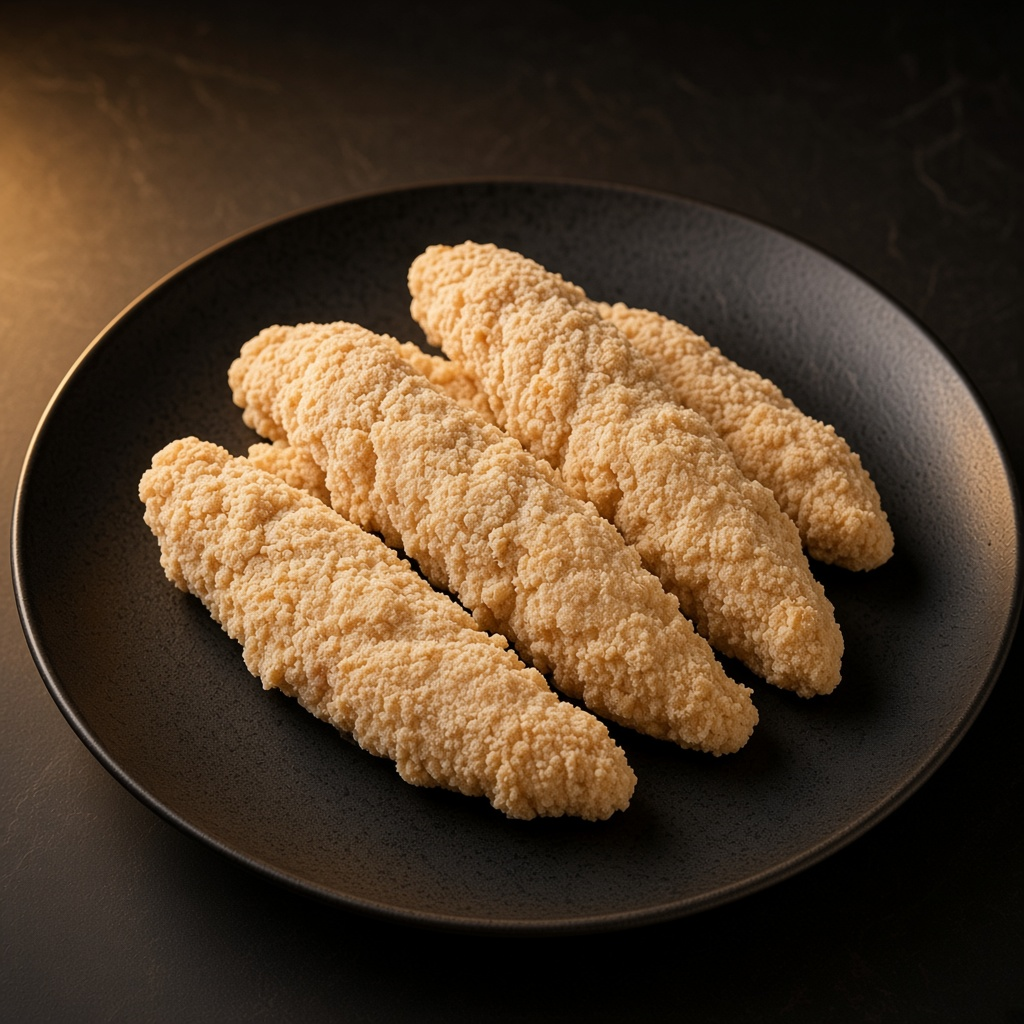
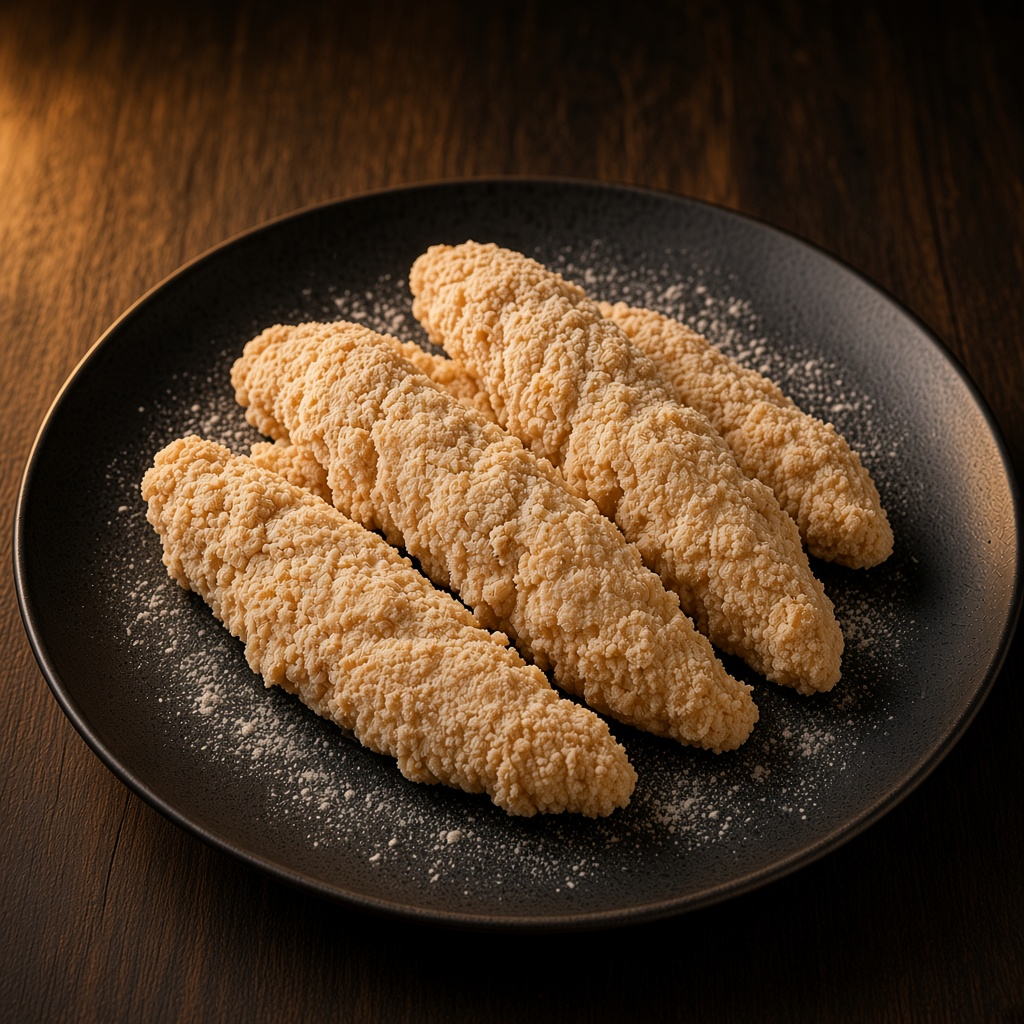
إضافة شارة التنفيذ وتوحيد نصوص المنيو مع صورة أوضح للاستربس.

diff --git a/src/data/menu.ts b/src/data/menu.ts
@@ -62,13 +62,13 @@ export const menuSections: MenuSectionData[] = [
     title: "منتجاتنا الطازجة",
     items: [
       { name: "بط بلدي", image: duck, label: DAILY_PRICE_LABEL, featured: true },
-      { name: "فراخ جاهزة على الطبخ", image: wholeChicken, label: DAILY_PRICE_LABEL, featured: true },
+      { name: "فراخ جاهزة\nعلى الطبخ", image: wholeChicken, label: DAILY_PRICE_LABEL, featured: true },
       { name: "بانيه شرائح فريش", image: baniehStrips, label: DAILY_PRICE_LABEL },
       { name: "أوراك بالعظم", image: thighsBone, label: DAILY_PRICE_LABEL },
       { name: "دبابيس دجاج", image: chickenFeet, label: DAILY_PRICE_LABEL },
       { name: "أجنحة دجاج", image: wings, label: DAILY_PRICE_LABEL },
       { name: "حمام بلدي", image: pigeons, label: DAILY_PRICE_LABEL },
-      { name: "فراخ بيضاء تربية بيتي", image: whiteChickens, label: DAILY_PRICE_LABEL },
+      { name: "فراخ بيضاء\nتربية بيتي", image: whiteChickens, label: DAILY_PRICE_LABEL },
       { name: "بيض أبيض", image: eggs, label: DAILY_PRICE_LABEL },
     ],
   },
@@ -76,7 +76,7 @@ export const menuSections: MenuSectionData[] = [
     id: "kofta-strips",
     title: "ركن الكفتة والاستربس",
     items: [
-      { name: "كفتة على الفحم، كيلو جاهز على الأكل", image: koftaCharcoal, price: "300 جنيه", featured: true },
+      { name: "كفتة على الفحم، كيلو", image: koftaCharcoal, price: "300 جنيه", note: "جاهز على الأكل", featured: true },
       { name: "استربس دجاج، كيلو", image: chickenStripsBreaded, price: "250 جنيه" },
     ],
   },
@@ -97,22 +97,22 @@ export const menuSections: MenuSectionData[] = [
     title: "ركن المشويات",
     badge: FREE_TAHINI_LABEL,
     items: [
-      { name: "فرخة كاملة مشوية على الفحم", image: grilledWholePlated, price: "300 جنيه", featured: true },
-      { name: "نصف فرخة مشوية على الفحم", image: grilledHalfPlated, price: "150 جنيه" },
-      { name: "ربع فرخة مشوية على الفحم", image: grilledQuarterPlated, price: "75 جنيه" },
-      { name: "طبق أرز بسمتي يكفي فردًا", image: basmatiRice, price: "30 جنيه" },
+      { name: "فرخة كاملة مشوية\nعلى الفحم", image: grilledWholePlated, price: "300 جنيه", featured: true },
+      { name: "نصف فرخة مشوية\nعلى الفحم", image: grilledHalfPlated, price: "150 جنيه" },
+      { name: "ربع فرخة مشوية\nعلى الفحم", image: grilledQuarterPlated, price: "75 جنيه" },
+      { name: "طبق أرز بسمتي\nيكفي فردًا", image: basmatiRice, price: "30 جنيه" },
     ],
   },
   {
     id: "ready-to-cook",
     title: "ركن المجزئات الجاهزة",
     items: [
-      { name: "استربس جاهز على التحمير، كيلو", image: stripsReadyFry, price: "250 جنيه", note: "متاح حار أو بارد" },
-      { name: "بانيه جاهز على التحمير، كيلو", image: paneReadyFry, price: "250 جنيه" },
-      { name: "كفتة لحمة على الفحم", image: rawMeatKofta, price: "300 جنيه" },
-      { name: "كفتة فراخ على الفحم", image: rawChickenKofta, price: "350 جنيه" },
-      { name: "برجر لحمة على الفحم", image: rawBurger, price: "300 جنيه" },
-      { name: "شيش طاووق فراخ على الفحم", image: rawShishTawook, price: "240 جنيه" },
+      { name: "استربس جاهز، كيلو\nعلى التحمير", image: stripsReadyFry, price: "250 جنيه", note: "متاح حار أو بارد" },
+      { name: "بانيه جاهز، كيلو\nعلى التحمير", image: paneReadyFry, price: "250 جنيه" },
+      { name: "كفتة لحمة\nعلى الفحم", image: rawMeatKofta, price: "300 جنيه" },
+      { name: "كفتة فراخ\nعلى الفحم", image: rawChickenKofta, price: "350 جنيه" },
+      { name: "برجر لحمة\nعلى الفحم", image: rawBurger, price: "300 جنيه" },
+      { name: "شيش طاووق فراخ\nعلى الفحم", image: rawShishTawook, price: "240 جنيه" },
     ],
   },
 ];

diff --git a/src/styles.css b/src/styles.css
@@ -285,8 +285,10 @@
   font-family: var(--font-sans);
   font-size: 1.125rem;
   font-weight: 700;
-  line-height: 1.6;
+  line-height: 1.55;
   color: var(--foreground);
+  white-space: pre-line;
+  text-wrap: balance;
 }
 
 .plate-note {
@@ -318,6 +320,57 @@
 
 .plate-row.is-flip .plate-price::before {
   margin-inline-start: auto;
+}
+
+.credit-pill {
+  display: inline-flex;
+  align-items: center;
+  gap: 0.55rem;
+  margin-top: 0.85rem;
+  padding: 0.42rem 0.95rem;
+  border-radius: 999px;
+  background: #fff;
+  color: #07285d;
+  box-shadow: 0 12px 28px -18px rgb(0 0 0 / 80%);
+  line-height: 1;
+  text-decoration: none;
+  transition: transform 0.2s ease;
+}
+
+.credit-pill:hover {
+  transform: translateY(-1px);
+}
+
+.credit-mark {
+  display: block;
+  height: 2.05rem;
+  width: auto;
+}
+
+.credit-word,
+.credit-brand {
+  font-family: var(--font-sans);
+  font-size: 1.05rem;
+  font-weight: 800;
+}
+
+.credit-word {
+  color: #dbb44d;
+}
+
+.credit-brand {
+  color: #07285d;
+  letter-spacing: -0.02em;
+}
+
+.credit-brand span {
+  color: #dbb44d;
+}
+
+.credit-icon {
+  width: 1.05rem;
+  height: 1.05rem;
+  color: #07285d;
 }
 
 .phone-link {

diff --git a/src/components/Footer.tsx b/src/components/Footer.tsx
@@ -1,3 +1,5 @@
+import { ExternalLink } from "lucide-react";
+import top1Mark from "@/assets/top1-mark.png";
 import { LogoMark } from "./LogoMark";
 import { CONTACT, DELIVERY_NOTE, FOOTER_PHRASE, telLink } from "@/data/menu";
 
@@ -19,6 +21,19 @@ export function Footer() {
           </a>
         </div>
         <p className="text-base text-muted-foreground sm:text-lg">{DELIVERY_NOTE}</p>
+        <a
+          href="https://www.top1markting.com/ar"
+          target="_blank"
+          rel="noopener noreferrer"
+          className="credit-pill"
+        >
+          <img src={top1Mark} alt="" width={48} height={35} className="credit-mark" />
+          <span className="credit-word">تنفيذ</span>
+          <span className="credit-brand" dir="ltr">
+            Top<span>1</span>Markting
+          </span>
+          <ExternalLink aria-hidden strokeWidth={2.25} className="credit-icon" />
+        </a>
       </div>
     </footer>
   );

diff --git a/src/test/menu-data.test.ts b/src/test/menu-data.test.ts
@@ -47,10 +47,10 @@ describe("menu data rules", () => {
   });
 
   it("assigns no weight where none was specified", () => {
-    expect(nameOf("كفتة لحمة")).toBe("كفتة لحمة على الفحم");
-    expect(nameOf("كفتة فراخ")).toBe("كفتة فراخ على الفحم");
-    expect(nameOf("برجر لحمة")).toBe("برجر لحمة على الفحم");
-    expect(nameOf("شيش طاووق")).toBe("شيش طاووق فراخ على الفحم");
+    expect(nameOf("كفتة لحمة")).toBe("كفتة لحمة\nعلى الفحم");
+    expect(nameOf("كفتة فراخ")).toBe("كفتة فراخ\nعلى الفحم");
+    expect(nameOf("برجر لحمة")).toBe("برجر لحمة\nعلى الفحم");
+    expect(nameOf("شيش طاووق")).toBe("شيش طاووق فراخ\nعلى الفحم");
   });
 
   it("marks grilling-service prices as service-only and offers free tahini", () => {

diff --git a/src/components/MenuSection.tsx b/src/components/MenuSection.tsx
@@ -16,7 +16,9 @@ export function MenuSection({ section }: { section: MenuSectionData; first?: boo
             <h2 className="mt-4 text-3xl font-bold text-foreground sm:text-5xl">{section.title}</h2>
             {section.badge ? <p className="badge-gold mt-4">{section.badge}</p> : null}
             {section.note ? (
-              <p className="mt-3 text-base leading-relaxed text-foreground/90 sm:text-lg">{section.note}</p>
+              <p className="mx-auto mt-3 max-w-md text-balance text-base leading-relaxed text-foreground/90 sm:text-lg">
+                {section.note}
+              </p>
             ) : null}
           </header>
         </Reveal>

diff --git a/src/components/ProductCard.tsx b/src/components/ProductCard.tsx
@@ -7,7 +7,7 @@ export function ProductCard({ item, flip = false }: { item: MenuItem; flip?: boo
       <div className="plate-disc">
         <img
           src={item.image}
-          alt={item.name}
+          alt={item.name.replaceAll("\n", " ")}
           loading="lazy"
           decoding="async"
           width={640}
